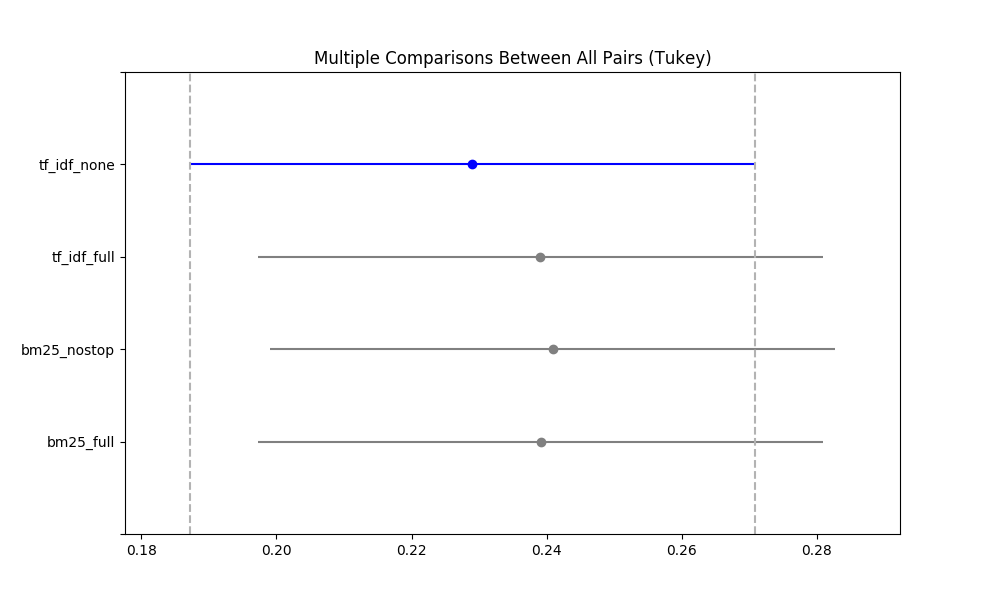
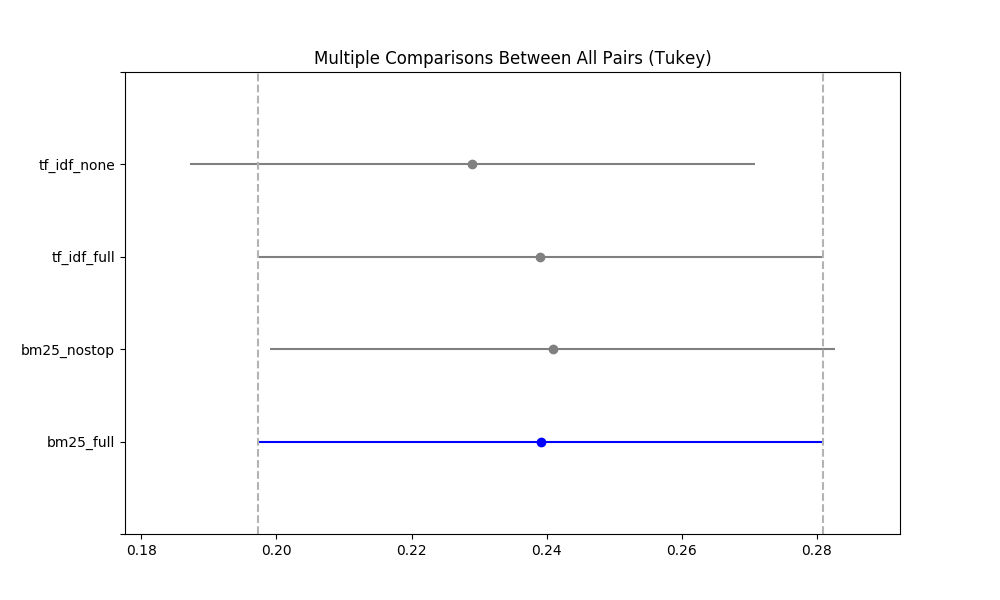
added anova, hst

Changed region(s): [[0.248, 0.72, 0.837, 0.75], [0.186, 0.27, 0.744, 0.3]]

diff --git a/plot_eval.py b/plot_eval.py
@@ -35,9 +35,11 @@ legend_label    = itertools.cycle(("BM25 - PorterStemmer + Stopwords",
                                     "TF_IDF - NO PorterStemmer, NO Stopwords"))
 
 
-########################################
-# INTERPOLATED PR CURVE for TOPIC = ALL
-########################################
+##########################################
+# INTERPOLATED PR CURVE
+# TOPIC = ALL
+# RECALL_CUTOFFS = [0.1 .. 1, step=0.1]
+##########################################
 topic = "all"
 plt.xticks(np.linspace(0, 1, 11))
 plt.yticks(np.linspace(0, 1, 11))
@@ -61,9 +63,12 @@ plt.savefig("./figures/iprc.png")
 plt.clf()
 
 
-#############################
-# PR CURVE for TOPIC = ALL
-#############################
+#################################################
+# PR CURVE
+# TOPIC = ALL
+# CUTOFFS = [5,10,15,20,30,50,100,200,500,1000]
+#################################################
+
 topic = "all"
 plt.xlim(0, 0.6)
 plt.ylim(0, 0.6)
@@ -83,86 +88,116 @@ plt.savefig("./figures/prc.png")
 plt.clf()
 
 
-#############################
+##################################################
 # METRICS REQUIRED BY HW1
-#############################
+# TOPIC = ALL --> these are all means
+# @aps      = Mean Average Precision
+# @rprecs   = prec @ RecallBase
+# @precs_10 = prec @ 10 (top-10 docs)
+# they all contain 4 values, one for each system
+##################################################
 
-aps         = []
+maps        = []
 rprecs      = []
 precs_10    = []
 
 for fname in files:
     evals = np.loadtxt("./terrier/var/evaluation/{}".format(fname), skiprows=2, dtype=str)
-    aps.append([float(x[2]) for x in evals if x[1] == topic and x[0] == "map"][0])
+    maps.append([float(x[2]) for x in evals if x[1] == topic and x[0] == "map"][0])
     rprecs.append([float(x[2]) for x in evals if x[1] == topic and x[0] == "Rprec"][0])
     precs_10.append([float(x[2]) for x in evals if x[1] == topic and x[0] == "P_10"][0])
 
 
-# print(tabulate(list(zip(legend_label, aps, rprecs, precs_10)), ["Modello", "MAP", "RPrec", "P@10"], tablefmt="pipe"))
-
+print("\n" + tabulate(list(zip(legend_label, maps, rprecs, precs_10)), ["Model", "MAP", "RPrec", "P@10"], tablefmt="pipe") + "\n")
 
 
 ################################
 # HYPOTHESIS TESTING
 ################################
 
-aps         = []
+maps        = []
 rprecs      = []
 precs_10    = []
 
 for fname in files:
     evals = np.loadtxt("./terrier/var/evaluation/{}".format(fname), skiprows=2, dtype=str)
-    aps.append([float(x[2]) for x in evals if x[1] != topic and x[0] == "map"])
+    maps.append([float(x[2]) for x in evals if x[1] != topic and x[0] == "map"])
     rprecs.append([float(x[2]) for x in evals if x[1] != topic and x[0] == "Rprec"])
     precs_10.append([float(x[2]) for x in evals if x[1] != topic and x[0] == "P_10"])
 
+maps        = np.array(maps)
+rprecs      = np.array(rprecs)
+precs_10    = np.array(precs_10)
 
 
-# needed for pairwise_tukeyhsd
+#####################################
+# BOXPLOTS FOR MAP, RPREC AND PREC@10
+#####################################
+
+plt.boxplot([maps[0], maps[1], maps[2], maps[3]], vert=False, labels=["bm25_full", "tf_idf_full", "bm25_nostop", "tf_idf_none"])
+plt.title("Distributions of MAPs")
+plt.xlabel("MAP")
+plt.tight_layout()
+plt.savefig("./figures/distr_maps.png")
+plt.clf()
+
+plt.boxplot([rprecs[0], rprecs[1], rprecs[2], rprecs[3]], vert=False, labels=["bm25_full", "tf_idf_full", "bm25_nostop", "tf_idf_none"])
+plt.title("Distributions of RPrecs")
+plt.xlabel("RPrec")
+plt.tight_layout()
+plt.savefig("./figures/distr_rprecs.png")
+plt.clf()
+
+plt.boxplot([precs_10[0], precs_10[1], precs_10[2], precs_10[3]], vert=False, labels=["bm25_full", "tf_idf_full", "bm25_nostop", "tf_idf_none"])
+plt.title("Distributions of P@10s")
+plt.xlabel("P@10")
+plt.tight_layout()
+plt.savefig("./figures/distr_precs_10.png")
+plt.clf()
+
+
+
+######################################
+# ANOVA 1-WAY
+######################################
+anova_maps      = stats.f_oneway(maps[0], maps[1], maps[2], maps[3])
+anova_rprecs    = stats.f_oneway(rprecs[0], rprecs[1], rprecs[2], rprecs[3])
+anova_precs_10  = stats.f_oneway(precs_10[0], precs_10[1], precs_10[2], precs_10[3])
+
+print("|        ANOVA 1-way        | ")
+print("|---------------------------| ")
+print("| MAP   | F: {0:.2f} | p: {1:.2f} |".format(anova_maps[0], anova_maps[1]))
+print("| RPREC | F: {0:.2f} | p: {1:.2f} |".format(anova_rprecs[0], anova_rprecs[1]))
+print("| P@10  | F: {0:.2f} | p: {1:.2f} |".format(anova_precs_10[0], anova_precs_10[1]))
+print()
+
+
+######################################
+# TUKEY HSD
+######################################
+
+# needed for `pairwise_tukeyhsd`
 names = np.repeat("bm25_full", 50)
 names = np.append(names, np.repeat("tf_idf_full", 50))
 names = np.append(names, np.repeat("bm25_nostop", 50))
 names = np.append(names, np.repeat("tf_idf_none", 50))
 
-aps         = np.array(aps)
-rprecs      = np.array(rprecs)
-precs_10    = np.array(precs_10)
-
-
-plt.boxplot([aps[0], aps[1], aps[2], aps[3]], vert=False, labels=["bm25_full", "tf_idf_full", "bm25_nostop", "tf_idf_none"])
-plt.show()
-
-# needed for pairwise_tukeyhsd
-aps.shape       = (200,)
+# reshaping for `pairwise_tukeyhsd`
+maps.shape      = (200,)
 rprecs.shape    = (200,)
 precs_10.shape  = (200,)
 
-tukey_map       = pairwise_tukeyhsd(aps, names)
+tukey_maps      = pairwise_tukeyhsd(maps, names)
 tukey_rprecs    = pairwise_tukeyhsd(rprecs, names)
 tukey_precs_10  = pairwise_tukeyhsd(precs_10, names)
 
-print(tukey_map)
-tukey_map.plot_simultaneous("bm_25_full").savefig("./figures/tukey_map.png")
-tukey_rprecs.plot_simultaneous("bm_25_full").savefig("./figures/tukey_rprecs.png")
-tukey_precs_10.plot_simultaneous("bm_25_full").savefig("./figures/tukey_precs_10.png")
+print(tukey_maps)
+print()
+print(tukey_rprecs)
+print()
+print(tukey_precs_10)
 
-# print(stats.f_oneway(aps[0], aps[1], aps[2], aps[3]))
-# print(stats.f_oneway(rprecs[0], rprecs[1], rprecs[2], rprecs[3]))
-# print(stats.f_oneway(precs_10[0], precs_10[1], precs_10[2], precs_10[3]))
-
-
-
-"""
-evals = np.loadtxt("./terrier/var/evaluation/{}".format(files[0]), skiprows=2, dtype=str)
-
-aps = []
-for topic in range(351, 401):
-    aps.append([float(x[2]) for x in evals if x[1] == str(topic) and x[0] == "map"][0])
-
-print(aps)
-plt.figure()
-plt.bar(np.arange(351, 401), aps)
-plt.show()
-
-"""
-
+# saving plots
+tukey_maps.plot_simultaneous("bm25_full").savefig("./figures/tukey_maps.png")
+tukey_rprecs.plot_simultaneous("bm25_full").savefig("./figures/tukey_rprecs.png")
+tukey_precs_10.plot_simultaneous("bm25_full").savefig("./figures/tukey_precs_10.png")
